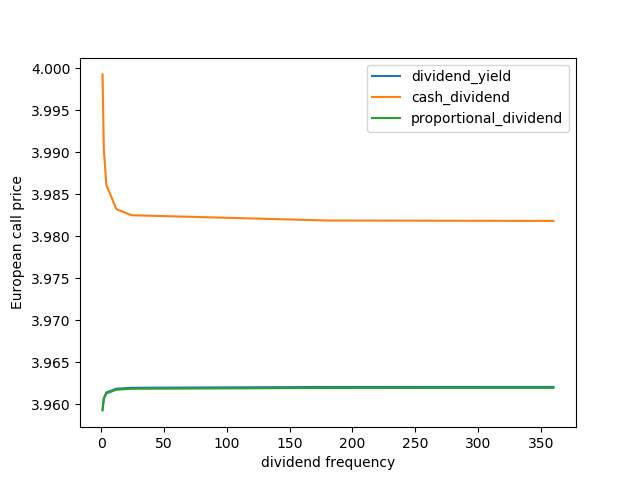
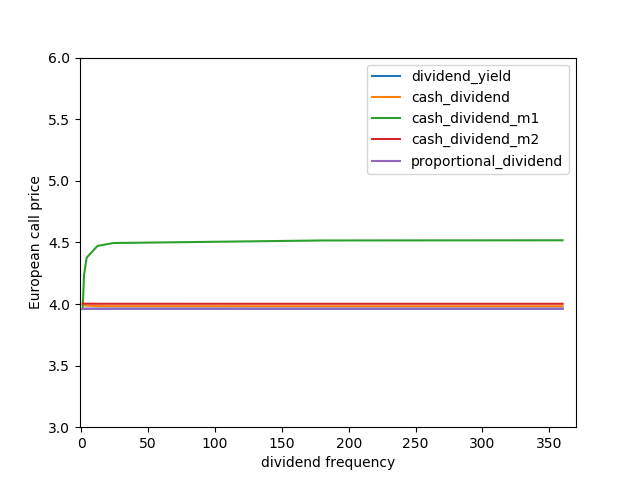
fixing non integer dt

diff --git a/main.py b/main.py
@@ -6,7 +6,6 @@ from Option import *
 from PricingModel import *
 from Price import Price
 from MarketData import MarketData, DividendType
-
 import matplotlib.pyplot as plt
 
 S0 = 100
@@ -14,6 +13,7 @@ vol = 0.1
 r = 0.01
 market = MarketData(spot=S0, vol=vol, r=r)
 delta = 0.01
+
 # TODO: this div amount is inconsistent with the rest
 '''market.set_div(div_amount=0.01, div_type=DividendType.ContinuousYield)
 
@@ -55,10 +55,13 @@ T = 360
 t = 0
 option = EuropeanOption(K=K, T=T, t=t, cp=1)
 forward = Forward(K=0.0, T=T, t=t, cp=1)
+
 n_path = 100000
 model = MonteCarlo(n_path, t, T)
 
 Price(option, market, Analytic())
+
+# dividend yield
 market.reset_div()
 dividend1 = market.div_convert(div_amount=delta, frequency=1, fr_type=DividendType.DiscreteProp,
                                to_type=DividendType.ContinuousYield)
@@ -66,6 +69,7 @@ market.set_div(div_amount=dividend1, frequency=1, div_type=DividendType.Continuo
 Price(option, market, model)
 Price(forward, market, model)
 
+# discrete cash
 market.reset_div()
 d = market.div_convert(div_amount=delta, frequency=1, fr_type=DividendType.DiscreteProp, to_type=DividendType.DiscreteCash)
 '''dividend2 = np.zeros(360)
@@ -74,6 +78,21 @@ market.set_div(div_amount=d, frequency=1, div_type=DividendType.DiscreteCash)
 Price(option, market, model)
 Price(forward, market, model)
 
+# discrete cash model 1
+market.reset_div()
+d = market.div_convert(div_amount=delta, frequency=1, fr_type=DividendType.DiscreteProp, to_type=DividendType.DiscreteCash_m1)
+market.set_div(div_amount=d, frequency=1, div_type=DividendType.DiscreteCash_m1)
+Price(option, market, model)
+Price(forward, market, model)
+
+# discrete cash model 2
+market.reset_div()
+d = market.div_convert(div_amount=delta, frequency=1, fr_type=DividendType.DiscreteProp, to_type=DividendType.DiscreteCash_m2)
+market.set_div(div_amount=d, frequency=1, div_type=DividendType.DiscreteCash_m2)
+Price(option, market, model)
+Price(forward, market, model)
+
+# discrete proportional
 market.reset_div()
 '''dividend3 = np.zeros(360)
 dividend3[179] = delta'''
@@ -82,69 +101,26 @@ Price(option, market, model)
 Price(forward, market, model)
 
 # compare ATM European call in 3 dividends
-'''dividend_yield=[]
-cash_dividend=[]
-proportional_dividend=[]
-for i in range(10):
-    model = Monte_Carlo(n_path, t, T)
-    dividend_yield.append(Price(EuropeanOption, parameter1, model))
-    cash_dividend.append(Price(EuropeanOption, parameter2, model))
-    proportional_dividend.append(Price(EuropeanOption, parameter3, model))
-print(dividend_yield)
-print(cash_dividend)
-print(proportional_dividend)
-np.save('dividend_yield.npy',dividend_yield)
-np.save('cash_dividend.npy',cash_dividend)
-np.save('proportional_dividend.npy',proportional_dividend)'''
-'''
-[3.5185041097852836, 4.266686487515944, 3.7187056542625507, 3.9249722998030916, 4.02103191291618, 3.875374929919656, 3.5985177608681793, 3.509104025231723, 3.2987225916479375, 3.7781256088716235]
-[3.53584422670298, 4.2884599458044175, 3.737630628467244, 3.9445852689972596, 4.041509661070356, 3.894441381521445, 3.6164796459644437, 3.526521218530505, 3.315318658524736, 3.796416929005649]
-[3.51839988402595, 4.266559512887719, 3.7185947021463206, 3.9248556109400514, 4.020912421135638, 3.8752597134790467, 3.598410951485733, 3.5090002444470465, 3.2986249805040715, 3.7780136177820647]
-'''
-
 # TODO: update this part
 frequency = [1,2,4,12,24,180,360]     # frequency n times per year
 dividend_yield_freq=[]
 cash_dividend_freq=[]
 proportional_dividend_freq=[]
+cash_dividend_m1_freq=[]
+cash_dividend_m2_freq=[]
 
 dividend_yield_forward=[]
 cash_dividend_forward=[]
 proportional_dividend_forward=[]
+cash_dividend_m1_forward=[]
+cash_dividend_m2_forward=[]
 
 delta_annual = 0.01
 K = 100
 T = 360
 t = 0
 n_path = 100000
-'''for i in frequency:
 
-    market.set_div(div_amount=delta_annual, frequency=180, div_type=DividendType.ContinuousYield)
-    option = EuropeanOption(K=K, T=T, t=t, cp=1)
-    forward = Forward(K=0.0, T=T, t=t, cp=1)
-    model = MonteCarlo(n_path, t, T)
-
-
-    market.reset_div()
-    market.set_div(div_amount=delta, frequency=i, div_type=DividendType.DiscreteProp)
-    C3 = Price(option, market, model)
-    F3 = Price(forward, market, model)
-
-    proportional_dividend_freq.append(C3)
-    proportional_dividend_forward.append(F3)
-
-
-plt.plot(frequency, proportional_dividend_freq, label='proportional_dividend')
-plt.legend()
-plt.xlabel('dividend frequency')
-plt.ylabel('European call price')
-plt.show()
-
-plt.plot(frequency, proportional_dividend_forward, label='proportional_dividend_forward')
-plt.legend()
-plt.xlabel('dividend frequency')
-plt.ylabel('forward price')
-plt.show()'''
 for i in frequency:
     print('frequency: ', i)
     #delta_annual = 0.01/i
@@ -170,6 +146,22 @@ for i in frequency:
     C2 = Price(option, market, model)
     F2 = Price(forward, market, model)
 
+    # discrete cash model 1
+    market.reset_div()
+    d = market.div_convert(div_amount=delta, frequency=i, fr_type=DividendType.DiscreteProp,
+                           to_type=DividendType.DiscreteCash_m1)
+    market.set_div(div_amount=d, frequency=i, div_type=DividendType.DiscreteCash_m1)
+    C21 = Price(option, market, model)
+    F21 = Price(forward, market, model)
+
+    # discrete cash model 2
+    market.reset_div()
+    d = market.div_convert(div_amount=delta, frequency=i, fr_type=DividendType.DiscreteProp,
+                           to_type=DividendType.DiscreteCash_m2)
+    market.set_div(div_amount=d, frequency=i, div_type=DividendType.DiscreteCash_m2)
+    C22 = Price(option, market, model)
+    F22 = Price(forward, market, model)
+
     market.reset_div()
     market.set_div(div_amount=delta, frequency=i, div_type=DividendType.DiscreteProp)
     C3 = Price(option, market, model)
@@ -179,18 +171,28 @@ for i in frequency:
 
     dividend_yield_freq.append(C1)
     cash_dividend_freq.append(C2)
+    cash_dividend_m1_freq.append(C21)
+    cash_dividend_m2_freq.append(C22)
     proportional_dividend_freq.append(C3)
 
     dividend_yield_forward.append(F1)
     cash_dividend_forward.append(F2)
+    cash_dividend_m1_forward.append(F21)
+    cash_dividend_m2_forward.append(F22)
     proportional_dividend_forward.append(F3)
 
 np.save('./results/frequency.npy', frequency)
 np.save('./results/dividend_yield_freq.npy', dividend_yield_freq)
 np.save('./results/cash_dividend_freq.npy', cash_dividend_freq)
+np.save('./results/cash_dividend_m1_freq.npy', cash_dividend_freq)
+np.save('./results/cash_dividend_m2_freq.npy', cash_dividend_freq)
 np.save('./results/proportional_dividend_freq.npy', proportional_dividend_freq)
+
+plt.axis([-1,370,3,6])
 plt.plot(frequency, dividend_yield_freq, label='dividend_yield')
 plt.plot(frequency, cash_dividend_freq, label='cash_dividend')
+plt.plot(frequency, cash_dividend_m1_freq, label='cash_dividend_m1')
+plt.plot(frequency, cash_dividend_m2_freq, label='cash_dividend_m2')
 plt.plot(frequency, proportional_dividend_freq, label='proportional_dividend')
 plt.legend()
 plt.xlabel('dividend frequency')
@@ -200,9 +202,15 @@ plt.show()
 
 np.save('./results/dividend_yield_forward.npy', dividend_yield_forward)
 np.save('./results/cash_dividend_forward.npy', cash_dividend_forward)
+np.save('./results/cash_dividend_m1_forward.npy', cash_dividend_forward)
+np.save('./results/cash_dividend_m2_forward.npy', cash_dividend_forward)
 np.save('./results/proportional_dividend_forward.npy', proportional_dividend_forward)
+
+plt.axis([-1,370,95,105])
 plt.plot(frequency, dividend_yield_forward, label='dividend_yield_forward')
 plt.plot(frequency, cash_dividend_forward, label='cash_dividend_forward')
+plt.plot(frequency, cash_dividend_m1_forward, label='cash_dividend_m1_forward')
+plt.plot(frequency, cash_dividend_m2_forward, label='cash_dividend_m2_forward')
 plt.plot(frequency, proportional_dividend_forward, label='proportional_dividend_forward')
 plt.legend()
 plt.xlabel('dividend frequency')
@@ -212,10 +220,16 @@ plt.show()
 
 print(dividend_yield_freq)
 print(cash_dividend_freq)
+print(cash_dividend_m1_freq)
+print(cash_dividend_m2_freq)
 print(proportional_dividend_freq)
 print(dividend_yield_forward)
 print(cash_dividend_forward)
+print(cash_dividend_m1_forward)
+print(cash_dividend_m2_forward)
 print(proportional_dividend_forward)
+
+
 '''
 # [3.9424289966357033, 4.21623893697899, 4.356583873411636, 4.451563121902687, 4.4755012591324395, 4.487500311199823, 4.497915066989274]
 # [3.9821585316279577, 3.973347544683029, 3.9690642989938034, 3.9661751823207125, 3.9654580005882045, 3.963575144635045, 3.964785179264228]

diff --git a/PricingModel.py b/PricingModel.py
@@ -41,12 +41,18 @@ class MonteCarlo(PricingModel):
         self.ST = np.ones(self.n_path) * self.S0  # S0
         self.Wt = np.random.normalmtrand.RandomState(seed=42).randn(self.n_path, self.T - self.t)
 
-    def generate_ST(self, S0, vol, r, T, t, d, q, delta, frequency):
+    def generate_ST(self, S0, vol, r, T, t, d, d_model1, d_model2, q, delta, frequency):
+        # r is daily interest rate
+
         n_timestep = T - t
         q1 = np.ones(n_timestep) * q
 
         d1 = np.zeros(n_timestep)
         delta1 = np.zeros(n_timestep)
+        d_m1 = np.zeros(n_timestep)
+        d_m2 = np.zeros(n_timestep)
+        #print(q,d,d_model1,d_model2,delta)
+        ST = np.array([S0] * self.n_path)  # S0
         if frequency!=0:
             dt = 360//frequency
             if d is not None:
@@ -54,12 +60,21 @@ class MonteCarlo(PricingModel):
                     d1[j*dt-1] = d
                 #print('frequency cash', frequency, sum(d1))
                 #d1[dt-1::dt] = np.ones(len(d1[dt-1::dt])) * d
-            if delta is not None:
-                #delta1[dt-1::dt] = np.ones(len(delta1[dt-1::dt])) * delta/frequency
+            elif delta is not None:
                 for j in range(1,frequency+1):
                     delta1[j*dt-1] = delta / frequency
                 #print('frequency delta', frequency, sum(delta1))
-        ST = np.array([S0] * self.n_path)  # S0
+            elif d_model1 is not None:
+                #ST = np.array([S0 - d_model1 * math.exp(-r * (T - t) / 360)] * self.n_path)  # S0
+                ST = np.array([S0 - d_model1 * math.exp(-r * (T - t))] * self.n_path)  # S0
+            elif d_model2 is not None:
+                dividend_FV = 0
+                for j in range(1, frequency + 1):
+                    #dividend_FV += math.exp(-r * (j + 1) * dt / 360)
+                    dividend_FV += math.exp(-r * (j + 1) * dt)
+                #dividend_FV = dividend_FV * d_model2 * math.exp(t * (T-t)/360)
+                dividend_FV = dividend_FV * d_model2 * math.exp(r * (T - t))
+
         for i in range(0, T - t):
             dS = ST * (np.ones(self.n_path) * (r - q1[i]) + vol * self.Wt[i:i + self.n_path]) - np.ones(self.n_path) * d1[
                 i]  # daily increment
@@ -68,7 +83,9 @@ class MonteCarlo(PricingModel):
                 print("cash divident: S", i, "<0")  # it the stock price is negative after paying dividend
         # TODO: contradicting basis
         #df = math.exp(-r * 360 * (T - t) / 252)  # matching discouting method with dividend?
-        df = math.exp(-r * 360 * (T - t) / 360)  # matching discouting method with dividend?
+        df = math.exp(-r * (T - t))  # matching discouting method with dividend?
+        if d_model2 is not None:
+            return {'path': ST - np.ones(self.n_path)*dividend_FV, 'df': df}
         return {'path': ST, 'df': df}
 
     '''def generate_path_dividend_yield(self):
@@ -105,3 +122,17 @@ class MonteCarlo(PricingModel):
             if self.if_barrier:
                 if_hit *= (self.ST < self.B)
         return self.ST * if_hit'''
+
+
+'''
+European ModelType.Analytic DividendType.ContinuousYield 3.9480822810875194
+European ModelType.MonteCarlo DividendType.ContinuousYield 3.959361378665875
+Forward ModelType.MonteCarlo DividendType.ContinuousYield 99.16408637756277
+European ModelType.MonteCarlo DividendType.DiscreteCash 3.9992615484786818
+Forward ModelType.MonteCarlo DividendType.DiscreteCash 99.16572565495483
+European ModelType.MonteCarlo DividendType.DiscreteCash_m1 3.953843359835985
+Forward ModelType.MonteCarlo DividendType.DiscreteCash_m1 99.15402967867253
+European ModelType.MonteCarlo DividendType.DiscreteCash_m2 3.9992754116285134
+Forward ModelType.MonteCarlo DividendType.DiscreteCash_m2 99.16575343234605
+European ModelType.MonteCarlo DividendType.DiscreteProp 3.959244061966392
+'''

diff --git a/MarketData.py b/MarketData.py
@@ -8,6 +8,8 @@ from numpy.random import mtrand
 class DividendType(Enum):
     ContinuousYield = auto()
     DiscreteCash = auto()
+    DiscreteCash_m1 = auto()
+    DiscreteCash_m2 = auto()
     DiscreteProp = auto()
 
 
@@ -25,6 +27,8 @@ class MarketData:
         self.q = 0.0
         self.d = None
         self.delta = None
+        self.d_model1 = None
+        self.d_model2 = None
 
     def set_div(self, div_amount: any, div_type: DividendType, frequency: int):
         self.div_type = div_type
@@ -34,6 +38,10 @@ class MarketData:
         elif div_type == DividendType.DiscreteCash:
             #self.d = div_amount.copy()
             self.d = div_amount
+        elif div_type == DividendType.DiscreteCash_m1:
+            self.d_model1 = div_amount
+        elif div_type == DividendType.DiscreteCash_m2:
+            self.d_model2 = div_amount
         elif div_type == DividendType.DiscreteProp:
             #self.delta = div_amount.copy()
             self.delta = div_amount
@@ -44,24 +52,21 @@ class MarketData:
     def div_convert(self, div_amount: float, frequency: int, fr_type: DividendType, to_type: DividendType) -> float:
         # frequency: number of payment per year
         # dividend_amount
+        if frequency == 0:
+            return 0.0
         if fr_type == to_type:
             return div_amount
         elif fr_type == DividendType.ContinuousYield and to_type == DividendType.DiscreteCash:
             raise NotImplementedError
-        elif fr_type == DividendType.DiscreteProp and to_type == DividendType.DiscreteCash:
+        elif fr_type == DividendType.DiscreteProp and to_type in (DividendType.DiscreteCash,
+                                                                   DividendType.DiscreteCash_m1,
+                                                                   DividendType.DiscreteCash_m2):
+            # same conversion for all cash dividend
             # TODO: remove hard code
             #return div_amount * self.spot * math.exp(self.r / 360 * 180)
-            if frequency == 0:
-                return 0.0
-                #return None
-            else:
-                #dt = frequency/360
-                #return div_amount/frequency * self.spot * math.exp(self.r * dt)
-                return self.spot * (1 - pow(1 - div_amount/frequency, frequency)) / (1 - math.exp(-self.r*1)) * (math.exp(self.r/frequency)-1)
+            #dt = frequency/360
+            #return div_amount/frequency * self.spot * math.exp(self.r * dt)
+            return self.spot * (1 - pow(1 - div_amount/frequency, frequency)) / (1 - math.exp(-self.r*1)) * (math.exp(self.r/frequency)-1)
         elif fr_type == DividendType.DiscreteProp and to_type == DividendType.ContinuousYield:
             # TODO: remove hard code
-            if frequency == 0:
-                return 0.0
-                #return None
-            else:
-                return - frequency * math.log(1 - div_amount/frequency) / 360
+            return - frequency * math.log(1 - div_amount/frequency) / 360

diff --git a/Price.py b/Price.py
@@ -8,8 +8,9 @@ from MarketData import MarketData, DividendType
 def Price(option: Option, market: MarketData, model: PricingModel, print_details: bool = True):
     if model.model_type() == ModelType.MonteCarlo:
         result = option.PriceByPath(model.generate_ST(S0=market.spot, vol=market.vol, r=market.r / 360,
-                                                    T=option.T, t=option.t, d=market.d, q=market.q,
-                                                    delta=market.delta, frequency=market.frequency))
+                                                    T=option.T, t=option.t, d=market.d, d_model1=market.d_model1,
+                                                    d_model2=market.d_model2, q=market.q, delta=market.delta,
+                                                    frequency=market.frequency))
     elif model.model_type() == ModelType.Analytic:
         result = option.PriceByBS(market)
     else:
